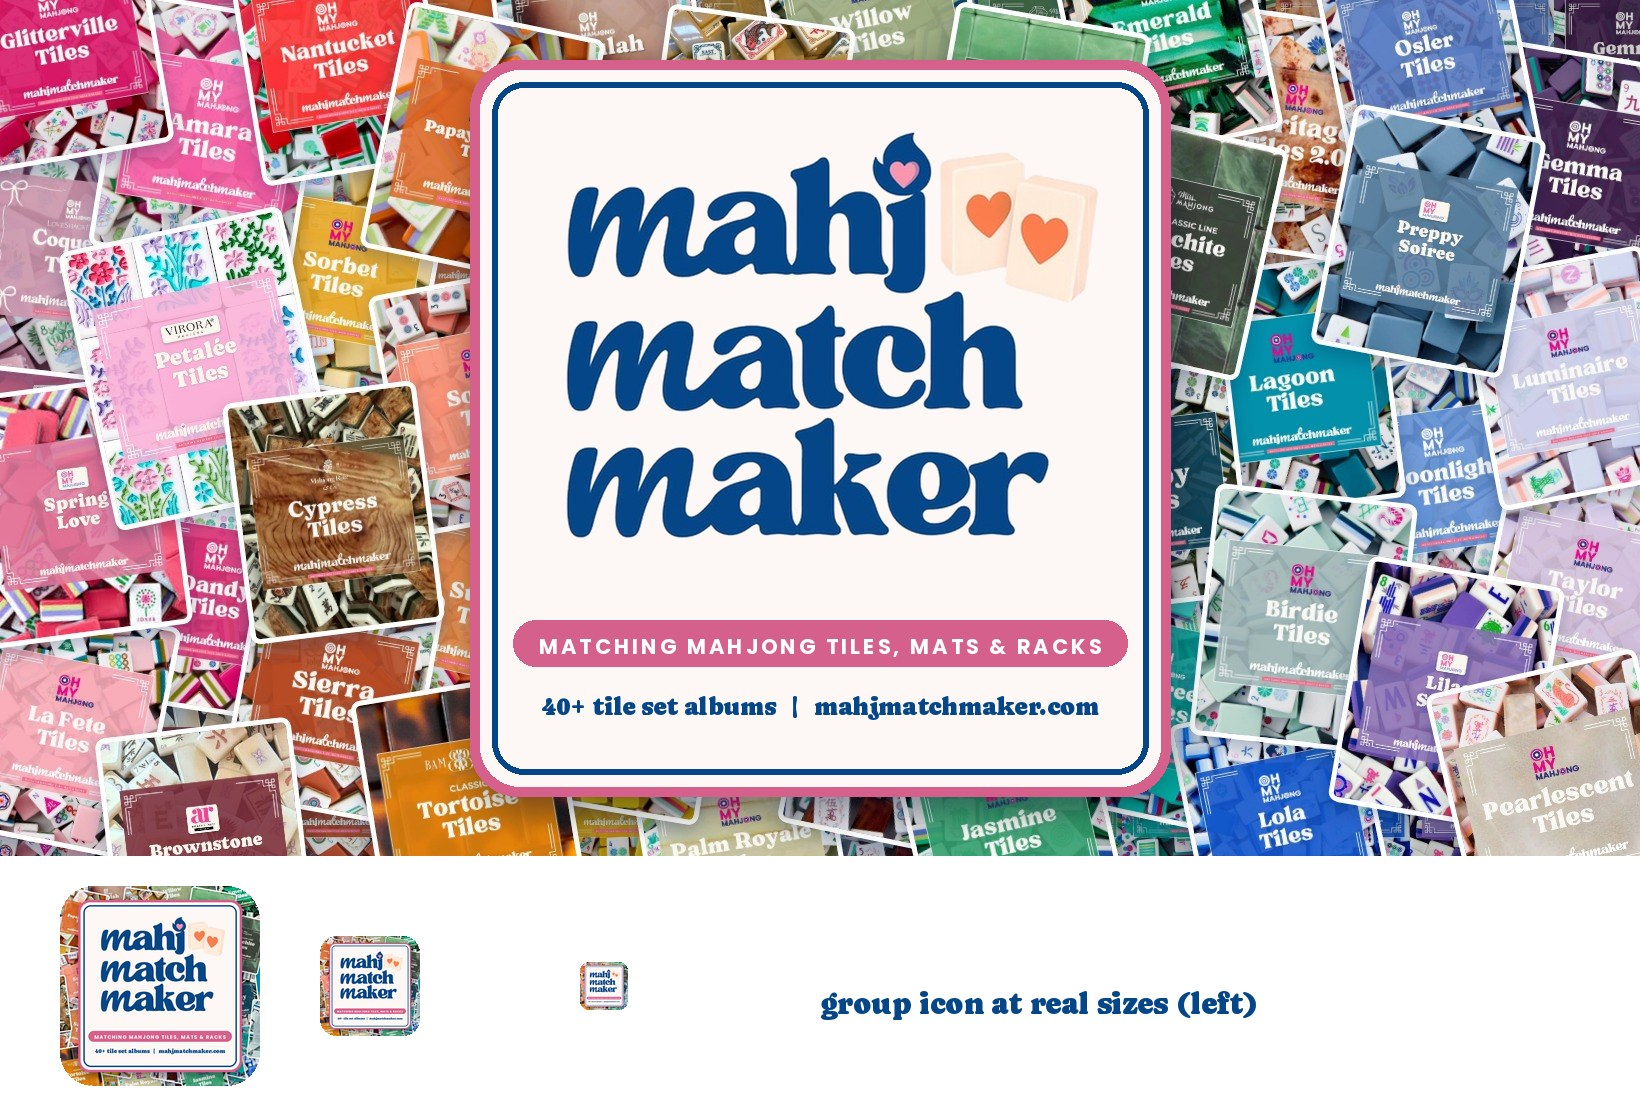
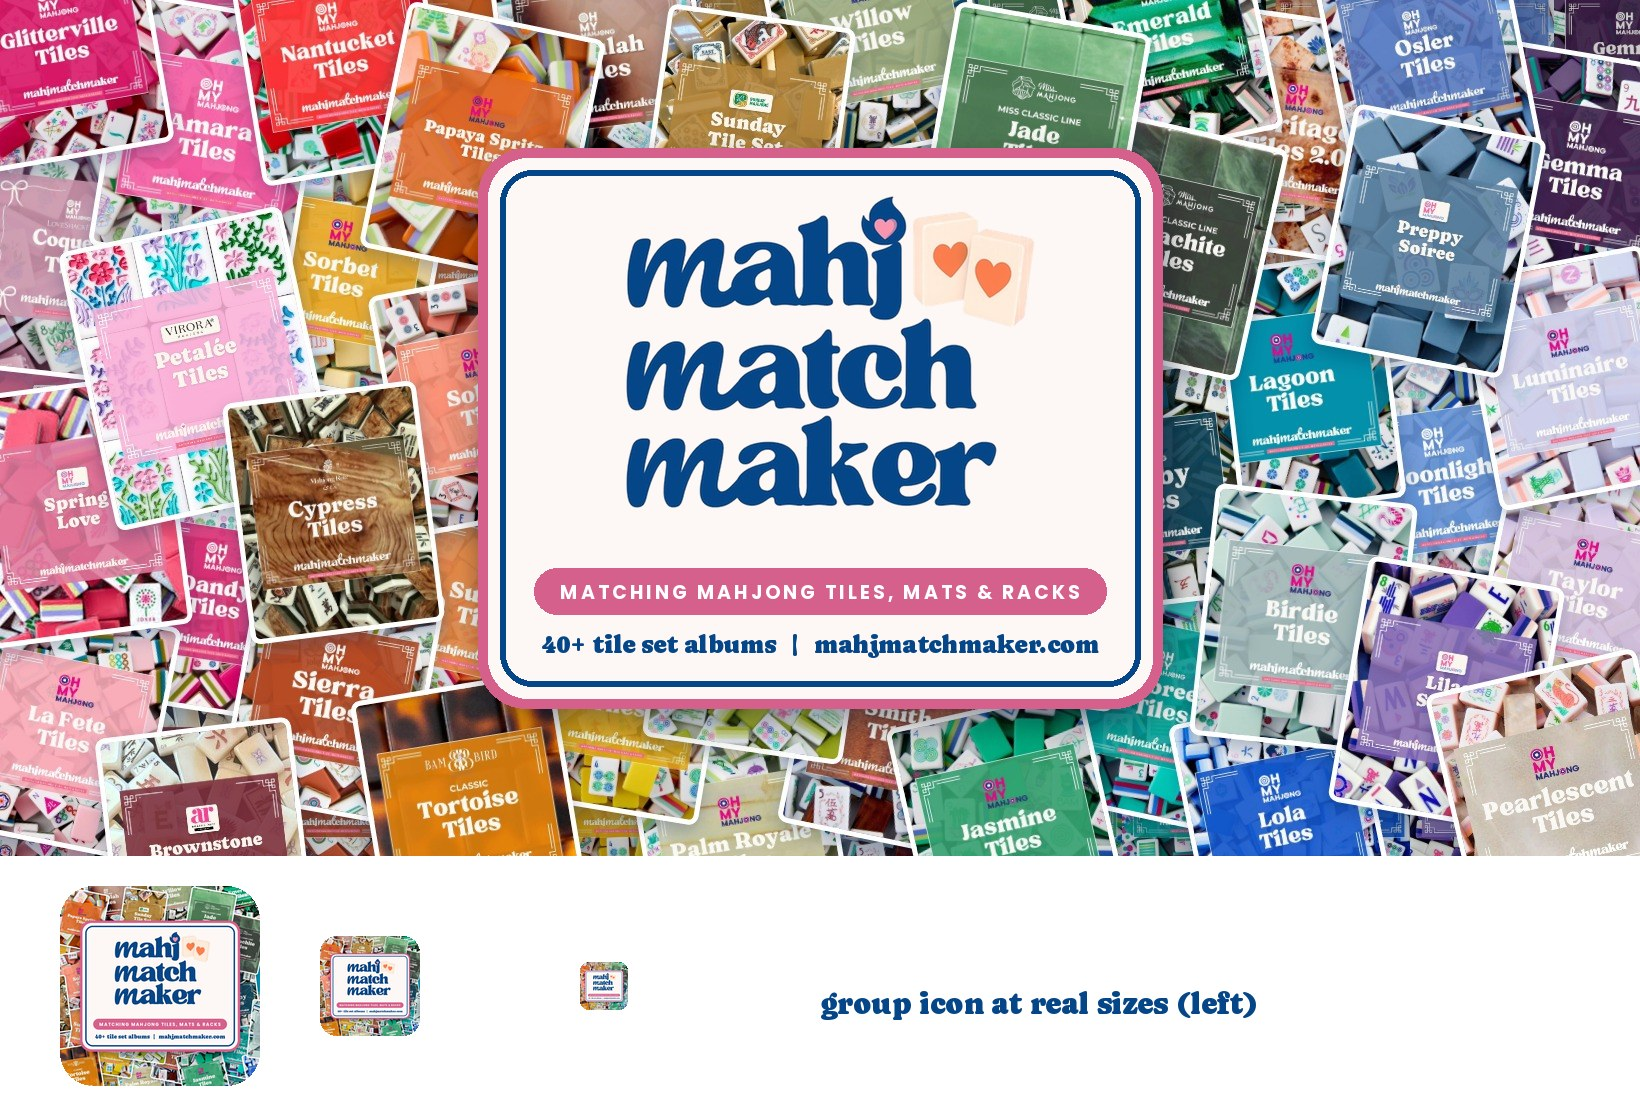
Group cover v7: badge sized to fit FB desktop crop
Claude-Session: https://claude.ai/code/session_014aKoC1ZMdZPjGkZ9kHhnLk

diff --git a/scripts/brand/group_cover_stacked.py b/scripts/brand/group_cover_stacked.py
@@ -4,7 +4,7 @@ from PIL import Image, ImageDraw, ImageFont, ImageFilter
 R='/home/claude/mahjmatchmaker-data/'
 cov=Image.open(R+'assets/brand/fb-group-cover-v6-rainbow.jpg').convert('RGBA')   # 1640x856
 W,H=cov.size; NAVY=(5,70,137); PINK=(214,96,140); CREAM=(253,248,246)
-bw,bh=700,736; x0=(W-bw)//2; y0=(H-bh)//2
+bw,bh=684,560; x0=(W-bw)//2; y0=(H-bh)//2
 sh=Image.new('RGBA',cov.size,(0,0,0,0)); ImageDraw.Draw(sh).rounded_rectangle((x0+6,y0+14,x0+bw+6,y0+bh+14),48,fill=(10,20,50,110)); cov.alpha_composite(sh.filter(ImageFilter.GaussianBlur(16)))
 d=ImageDraw.Draw(cov)
 d.rounded_rectangle((x0,y0,x0+bw,y0+bh),48,fill=PINK)
@@ -15,18 +15,18 @@ av=Image.open(R+'assets/brand/fb-page/mahj-matchmaker-page-profile-1080.jpg').co
 import numpy as np
 a=np.asarray(av).astype(int); m=(a.min(axis=2)<235).astype('uint8')*255
 lg=av.convert('RGBA'); lg.putalpha(Image.fromarray(m).filter(ImageFilter.GaussianBlur(0.8)))
-lw=560; lg=lg.resize((lw,int(lg.height*lw/lg.width)),Image.LANCZOS)
-cov.alpha_composite(lg,((W-lw)//2+12,y0+64))
+lw=430; lg=lg.resize((lw,int(lg.height*lw/lg.width)),Image.LANCZOS)
+cov.alpha_composite(lg,((W-lw)//2+10,y0+42))
 fb=lambda s,w=700: ImageFont.truetype(R+'scripts/social/tileprofile/fonts/'+('bitter-latin-700-normal.woff2' if w==700 else 'bitter-latin-600-normal.woff2'),s)
-try: f1=ImageFont.truetype('/usr/share/fonts/truetype/google-fonts/Poppins-Bold.ttf',21)
+try: f1=ImageFont.truetype('/usr/share/fonts/truetype/google-fonts/Poppins-Bold.ttf',19)
 except: f1=ImageFont.load_default()
 txt='MATCHING MAHJONG TILES, MATS & RACKS'; sp=3
-tw=sum(d.textlength(c,font=f1)+sp for c in txt)-sp; py=y0+bh-176
+tw=sum(d.textlength(c,font=f1)+sp for c in txt)-sp; py=y0+bh-140
 d.rounded_rectangle(((W-tw)/2-26,py,(W+tw)/2+26,py+46),23,fill=PINK)
 x=(W-tw)/2
 for c in txt: d.text((x,py+11),c,font=f1,fill=(255,255,255)); x+=d.textlength(c,font=f1)+sp
 cap=ImageFont.truetype(R+'scripts/social/tileprofile/fonts/Caprasimo.ttf',30)
-d.text((W/2,py+86),'40+ tile set albums  |  mahjmatchmaker.com',font=ImageFont.truetype(R+'scripts/social/tileprofile/fonts/Caprasimo.ttf',25),fill=NAVY,anchor='mm')
+d.text((W/2,py+76),'40+ tile set albums  |  mahjmatchmaker.com',font=ImageFont.truetype(R+'scripts/social/tileprofile/fonts/Caprasimo.ttf',25),fill=NAVY,anchor='mm')
 out=R+'assets/brand/fb-group-cover-v7-stacked.jpg'; cov.convert('RGB').save(out,quality=92)
 # previews: desktop cover, mobile crop, and the square icon (center square, shown small)
 ic=cov.crop(((W-H)//2,0,(W+H)//2,H)).convert('RGB')
@@ -35,4 +35,5 @@ for i,z in enumerate([200,100,48]):
     t=ic.resize((z,z),Image.LANCZOS); m=Image.new('L',(z,z),0); ImageDraw.Draw(m).rounded_rectangle((0,0,z-1,z-1),z//6,fill=255)
     pv.paste(t,(60+i*260,856+30+(200-z)//2),m)
 ImageDraw.Draw(pv).text((820,856+130),'group icon at real sizes (left)',font=cap,fill=NAVY)
+dk=cov.convert('RGB').crop((0,(H-607)//2,W,(H+607)//2)).resize((820,303)); pv.paste(dk,(800,856+0)) if False else None
 pv.save(R+'assets/brand/fb-group-cover-v7-preview.jpg',quality=88); print(out)
